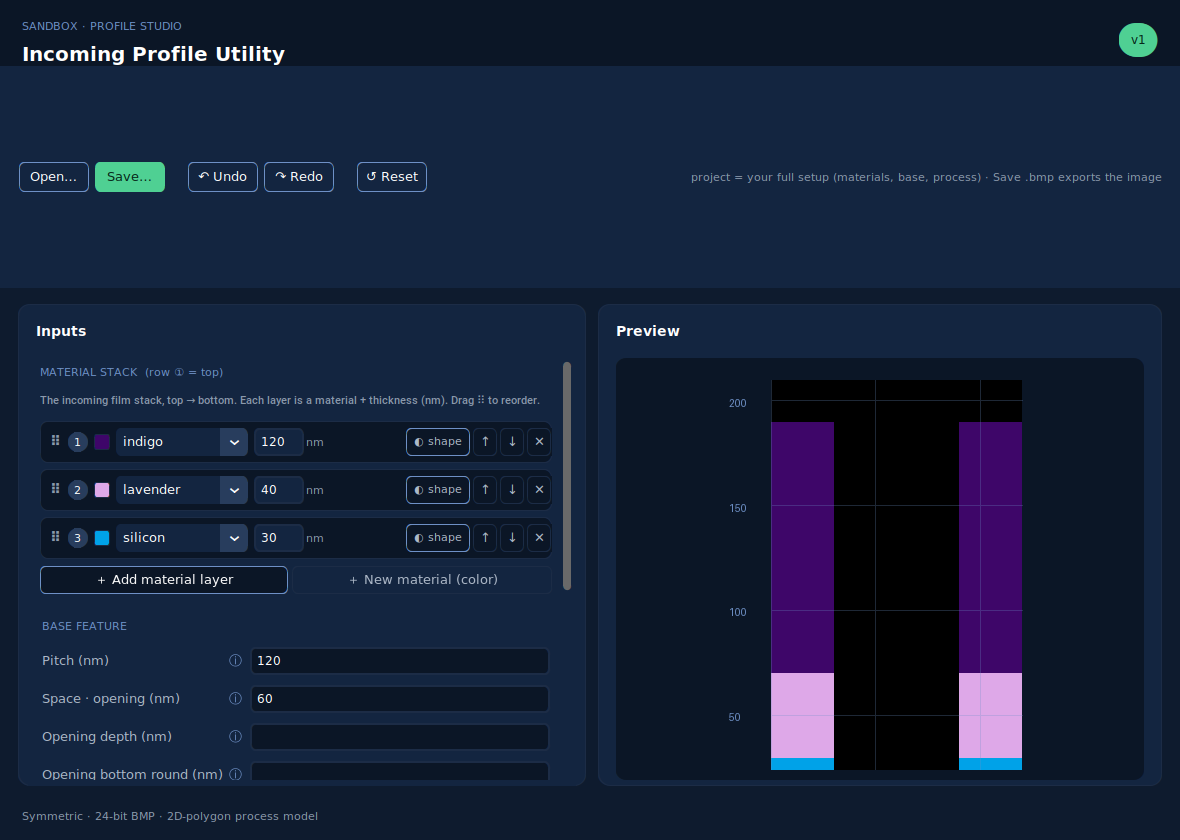
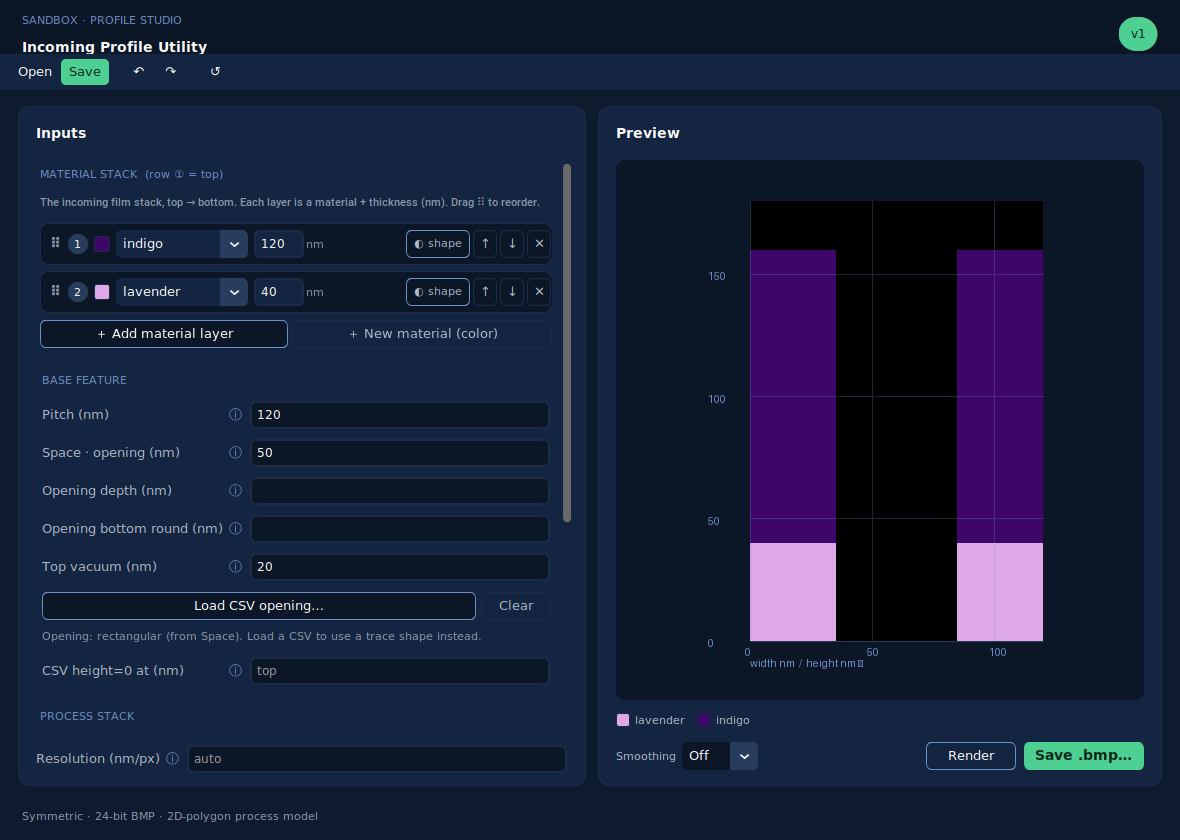
Slim toolbar (Word/PowerPoint style); fix 200px-tall strip bug
- Toolbar separators had no explicit height, so they inherited CTkFrame's 200px default
  and inflated the strip to ~212px. Give separators a fixed height and use
  pack_propagate(False); the bar is now a slim 36px.
- Compact buttons: short Open/Save labels + icon glyphs (undo ↶ / redo ↷ / reset ↺) with
  tooltips, grouped by thin separators. Trimmed the header to 54px. 21 tests pass.

diff --git a/src/incoming_profile_utility/gui.py b/src/incoming_profile_utility/gui.py
@@ -269,10 +269,10 @@ class ProfileStudio(ctk.CTk):
         widget.grid(row=r,column=2,sticky="ew",padx=(0,8),pady=5)
 
     def _header(self):
-        h=ctk.CTkFrame(self,fg_color=NAVY_900,corner_radius=0,height=66); h.grid(row=0,column=0,sticky="ew"); h.grid_propagate(False); h.grid_columnconfigure(0,weight=1)
-        b=ctk.CTkFrame(h,fg_color="transparent"); b.grid(row=0,column=0,sticky="w",padx=22,pady=12)
+        h=ctk.CTkFrame(self,fg_color=NAVY_900,corner_radius=0,height=54); h.grid(row=0,column=0,sticky="ew"); h.grid_propagate(False); h.grid_columnconfigure(0,weight=1)
+        b=ctk.CTkFrame(h,fg_color="transparent"); b.grid(row=0,column=0,sticky="w",padx=22,pady=6)
         ctk.CTkLabel(b,text="SANDBOX · PROFILE STUDIO",font=self.eb,text_color=BLUE_L).pack(anchor="w")
-        ctk.CTkLabel(b,text="Incoming Profile Utility",font=self.tf,text_color=ON).pack(anchor="w")
+        ctk.CTkLabel(b,text="Incoming Profile Utility",font=self.ub,text_color=ON).pack(anchor="w")
         pill=ctk.CTkFrame(h,fg_color=GREEN,corner_radius=999); pill.grid(row=0,column=1,sticky="e",padx=22)
         ctk.CTkLabel(pill,text="v1",font=self.mono,text_color=GREEN_INK).pack(padx=12,pady=3)
 
@@ -286,19 +286,22 @@ class ProfileStudio(ctk.CTk):
         m.set(default); self.material_menus.append(m); return m
 
     def _toolbar(self):
-        tb=ctk.CTkFrame(self,fg_color=NAVY_800,corner_radius=0,height=46); tb.grid(row=1,column=0,sticky="ew"); tb.grid_propagate(False)
-        inner=ctk.CTkFrame(tb,fg_color="transparent"); inner.pack(side="left",padx=16,pady=7)
-        def tbtn(text,cmd,accent=False):
-            ctk.CTkButton(inner,text=text,command=cmd,font=self.uf,width=70,height=30,
+        tb=ctk.CTkFrame(self,fg_color=NAVY_800,corner_radius=0,height=36); tb.grid(row=1,column=0,sticky="ew")
+        tb.pack_propagate(False)                       # children are packed; keep the strip slim
+        inner=ctk.CTkFrame(tb,fg_color="transparent"); inner.pack(side="left",padx=10,pady=4)
+        def tbtn(text,cmd,tip,accent=False,w=48):
+            btn=ctk.CTkButton(inner,text=text,command=cmd,font=self.uf,width=w,height=26,corner_radius=5,
                 fg_color=(GREEN if accent else "transparent"),text_color=(GREEN_INK if accent else ON),
-                border_width=(0 if accent else 1),border_color=BLUE_L,hover_color=(GREEN_D if accent else NAVY_700)).pack(side="left",padx=3)
+                border_width=0,hover_color=(GREEN_D if accent else NAVY_700))
+            btn.pack(side="left",padx=1); Tooltip(btn,tip)
         def sep():
-            ctk.CTkFrame(inner,width=1,fg_color=NAVY_700).pack(side="left",fill="y",padx=8,pady=4)
-        tbtn("Open…",self._open_project); tbtn("Save…",self._save_project,accent=True); sep()
-        tbtn("↶ Undo",self._undo_action); tbtn("↷ Redo",self._redo_action); sep()
-        tbtn("↺ Reset",self._reset)
-        ctk.CTkLabel(tb,text="project = your full setup (materials, base, process) · Save .bmp exports the image",
-                     font=self.eb,text_color=MUT).pack(side="right",padx=18)
+            ctk.CTkFrame(inner,width=1,height=20,fg_color=NAVY_700).pack(side="left",padx=6)
+        tbtn("Open",self._open_project,"Open a saved project (.json)")
+        tbtn("Save",self._save_project,"Save the whole project — materials, base feature, process stack — to a .json file",accent=True)
+        sep()
+        tbtn("↶",self._undo_action,"Undo",w=30); tbtn("↷",self._redo_action,"Redo",w=30)
+        sep()
+        tbtn("↺",self._reset,"Reset everything to a blank canvas",w=30)
 
     def _body(self):
         body=ctk.CTkFrame(self,fg_color="transparent"); body.grid(row=2,column=0,sticky="nsew",padx=18,pady=16)
